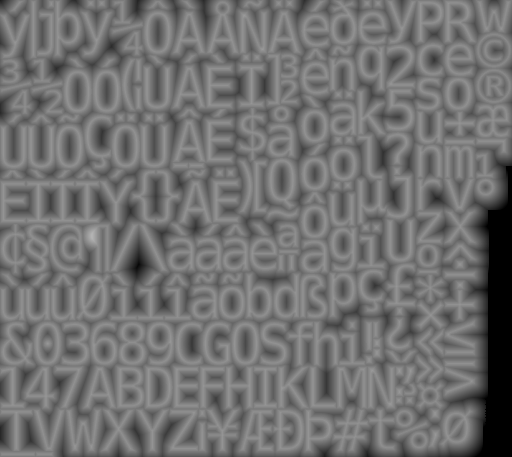
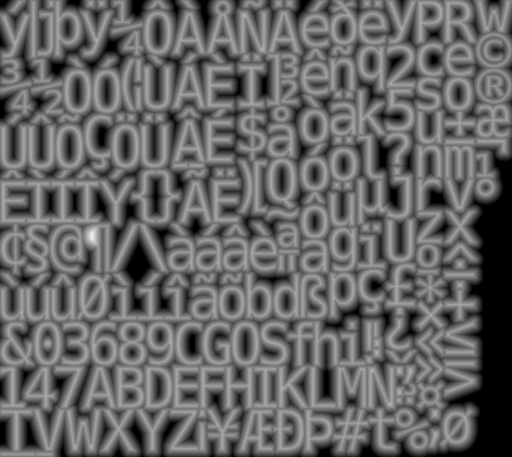
Improve output of ttfcompile :)

diff --git a/ttfcompile/distanceTransform.cpp b/ttfcompile/distanceTransform.cpp
@@ -13,6 +13,112 @@ void distanceTransform(const png::image<png::gray_pixel>& image,
                        pair<int,int> insize,
                        pair<int,int> outsize,
                        int searchsize) {
+    float scaleX = ((float)insize.first) /outsize.first;
+    float scaleY = ((float)insize.second)/outsize.second;
+
+    // Raw distance map.
+    float* hood = new float[outsize.first*outsize.second];
+    float min = 1e20f;
+    float max = -1e20f;
+
+    auto lerp = [&](float x, float y) {
+        if (x < 0 || y < 0 || x >= insize.first || y >= insize.second)
+            return 1e20f;
+
+        int x0 = (int)x;
+        int y0 = (int)y;
+        int x1 = x0+1; if (x1 >= insize.first) x1 = insize.first-1;
+        int y1 = y0+1; if (y1 >= insize.second) y1 = insize.second-1;
+
+        float fx = x-x0;
+        float fy = y-y0;
+
+        int g00 = image[y0][x0];
+        int g10 = image[y0][x1];
+        int g11 = image[y1][x1];
+        int g01 = image[y1][x0];
+
+        return ((1-fx)*(1-fy)*g00 + (1-fx)*fy*g01 + fx*(1-fy)*g10 + fx*fy*g11)-0x80;
+    };
+
+    vector<pair<float,vector<pair<float,float>>>> deltas;
+    for (int i = 1; i <= searchsize*2; i++) {
+        float r = ((float)i)/2;
+        int N = 2*3.14159265358979323846*r;
+        vector<pair<float,float>> ring;
+        for (int j = 0; j < N; j++) {
+            ring.push_back(pair<float,float>(
+                r*cos(j*3.14159265358979323846*2/N), r*sin(j*3.14159265358979323846*2/N)
+            ));
+        }
+        deltas.push_back(pair<float,vector<pair<float,float>>>(r, ring));
+    }
+
+
+    for (int iy = 0; iy < outsize.second; iy++) {
+    for (int ix = 0; ix < outsize.first; ix++) {
+        // Pixel location on src image.
+        float bx = (ix+0.5)*scaleX;
+        float by = (iy+0.5)*scaleY;
+
+        float m = lerp(bx, by);
+        bool inside = m >= 0;
+        float minDistance = 1e20f;
+        if (m != 0) {
+            // Radial outwards search.
+            for (auto ring: deltas) {
+                for (auto delta: ring.second) {
+                    function<float(int,float,float,float,float)> binary = [&](int N, float v0, float v1, float k0, float k1) {
+                        float k = k0 + (k1-k0)*(0 - v0)/(v1 - v0);
+                        float vk = lerp(bx + delta.first*k, by + delta.second*k);
+                        if (vk*vk < 1e-5 || N > 20) return k;
+                        if (v0*vk < 0) return binary(N+1,v0, vk, k0, k);
+                        if (vk*v1 < 0) return binary(N+1,vk, v1, k, k1);
+                    };
+                    float n = lerp(bx + delta.first, by + delta.second);
+                    if (n != 1e20f && n*m <= 0) {
+                        float dist = ring.first;
+                        if (n == 0) minDistance = dist;
+                        else minDistance = dist * binary(0,m, n, 0, 1);
+                    }
+                }
+                if (minDistance != 1e20f) break;
+            }
+        }
+        else minDistance = 0;
+
+        if (minDistance != 1e20f) {
+            if (!inside) minDistance = -minDistance;
+            if (minDistance < min) min = minDistance;
+            if (minDistance > max) max = minDistance;
+        }
+        else if (!inside) minDistance = -minDistance;
+        hood[iy*outsize.first+ix] = minDistance;
+    }}
+
+    // Perform scaling.
+    float mm = fmax(fabs(min), fabs(max));
+    min = -mm;
+    max = mm;
+    float det = 255.0/(max-min);
+    for (int iy = 0; iy < outsize.second; iy++) {
+    for (int ix = 0; ix < outsize.first; ix++) {
+        float m = hood[iy*outsize.first+ix];
+        if (m == 1e20f) m = 255;
+        else if (m == -1e20f) m = 0;
+        else
+            m = (m - min)*det;
+        dist[iy][ix] = (int)m;
+    }}
+
+    delete [] hood;
+}
+
+void distanceTraxnsform(const png::image<png::gray_pixel>& image,
+                       png::image<png::gray_pixel>& dist,
+                       pair<int,int> insize,
+                       pair<int,int> outsize,
+                       int searchsize) {
    float scaleX = ((float)insize.first) /outsize.first;
    float scaleY = ((float)insize.second)/outsize.second;
 

diff --git a/README.md b/README.md
@@ -17,7 +17,7 @@ Support for full unicode.
 * `font` : The font file (eg: /usr/share/fonts/truetype/freefont/FreeSans.ttf)
 * `size` : Pixel size for font when rendering an intial atlas of characters. Should aim for some large value like `250` so that we have a sufficiently high quality atlas to compute the distance field from.
 * `gap`  : Pixel gap between characters in initial atlas, a value of `3` seems to give a good tradeoff between efficiency in terms of how large the output image must be to get good quality, whilst preventing adjacent characters intefering in the distance field.
-* `search-radius` : Pixel radius in the initial high quality atlas for performing brute-force search of nearest boundary, needs to scale with the pixel font size, a value of `60` for a font size of `250` seems to work well.
+* `search-radius` : Pixel radius in the initial high quality atlas for performing brute-force search of nearest boundary, needs to scale with the pixel font size, a value of `40` for a font size of `250` seems to work well.
 * `output-size` : Pixel size for the dimensions of the output distance field (Actual output may likely have one dimension shorter, output is not generally an exact square).
 * `char-set` : Set of unicode characters to use for the atlast, by default all of the ISO-1 latin code page.
 * `output-name` : Name for output files (and location), output files written as output-name.png and output-name.dat. By default the given font file name/location is used for output-name.
@@ -66,7 +66,7 @@ example, the kerning matrix:
  [-1, 1, 1, 0 ]
  [ 0, 0, 0, 0 ]
  [ 1, 1, 1, 1 ]]
-```     
+```
 would be encoded in the .dat file as
 ```
 0:ft, 3:u32, 1:ft, 1:u32, -1:ft, 1:u32, 1:ft, 2:u32, 0:ft, 5:u32, 1:ft, 4:u32
@@ -92,7 +92,7 @@ class Font {
 
     // Information from .dat file parsed.
     var info : FontInfo;
-    
+
     // Destroy GL state, can't use font following this call.
     function destroy();
 }
@@ -122,15 +122,15 @@ Per character metrics from .dat file.
 class Matric {
     // Horizontal offset after rendering character.
     var advance : Float;
-    
+
     // Horizontal and vertical offsets for rendering character.
     var left : Float;
     var top : Float;
-    
+
     // Character size
     var width : Float;
     var height : Float;
-    
+
     // Character texture rectangle in atlas png
     var u : Float;
     var v : Float;
@@ -142,24 +142,24 @@ class Matric {
 Rendering engine for gl3font fonts.
 ```
 class FontRenderer {
-    
+
     function new();
-    
+
     // Set transformation matrix for rendering font to the screen.
     function setTransform(mat:Mat4);
-    
+
     // Set font colour for rendering
     function setColour(colour:Vec4);
-    
+
     // Begin rendering fonts (Selects gl program, enables vertex attrib arrays)
     function begin();
-    
+
     // End rendering of fonts (disablsed vertex attrib arrays)
     function end();
-    
+
     // Render a string, must be called being begin() and end()
     function render(string:StringBuffer);
-    
+
     // Destroy GL state, can't use renderer following this call.
     function destroy();
 }
@@ -168,21 +168,21 @@ class FontRenderer {
 GL3Font 'string', string data is buffered for efficient rendering.
 ```
 class StringBuffer {
-    
+
     // Create string buffer with initial space for 'size' characters
     // and with vertex buffer set for either static, or dynamic drawing.
     // (Strings that frequently change should be dynamic).
     function new(font:Font, ?size:Int=1, ?staticDraw:Bool=false);
-    
+
     // Font in use for string, can be changed at any 'reasonable' time.
     // i.e. changing font, after setting text, but before rencering has no effect
     // on that rendered text.
     var font:Font;
-    
+
     // Set StringBuffer to render the given string, using given alignment.
     // Multiline strings (delimited by \n) permitted.
     function set(string:String, ?align:FontAlign=AlignLeft);
-    
+
     // Destroy GL state, can't use string buffer following this call.
     function destroy();
 }
@@ -194,7 +194,7 @@ enum FontAlign {
     AlignLeft;   // Text drawn starting with first baseline at y=0, rendering each line to the right of origin.
     AlignRight;  // Text drawn starting with first baseline at y=0, rendering each line to the left of origin.
     AlignCentre; // Text drawn starting with first baseline at y=0, rendering each line centered on x=0.
-    
+
     // Justified varients of the above. Each line has spacing artificially scaled up so that every line covers
     // the same horizontal space.
     AlignLeftJustified;
